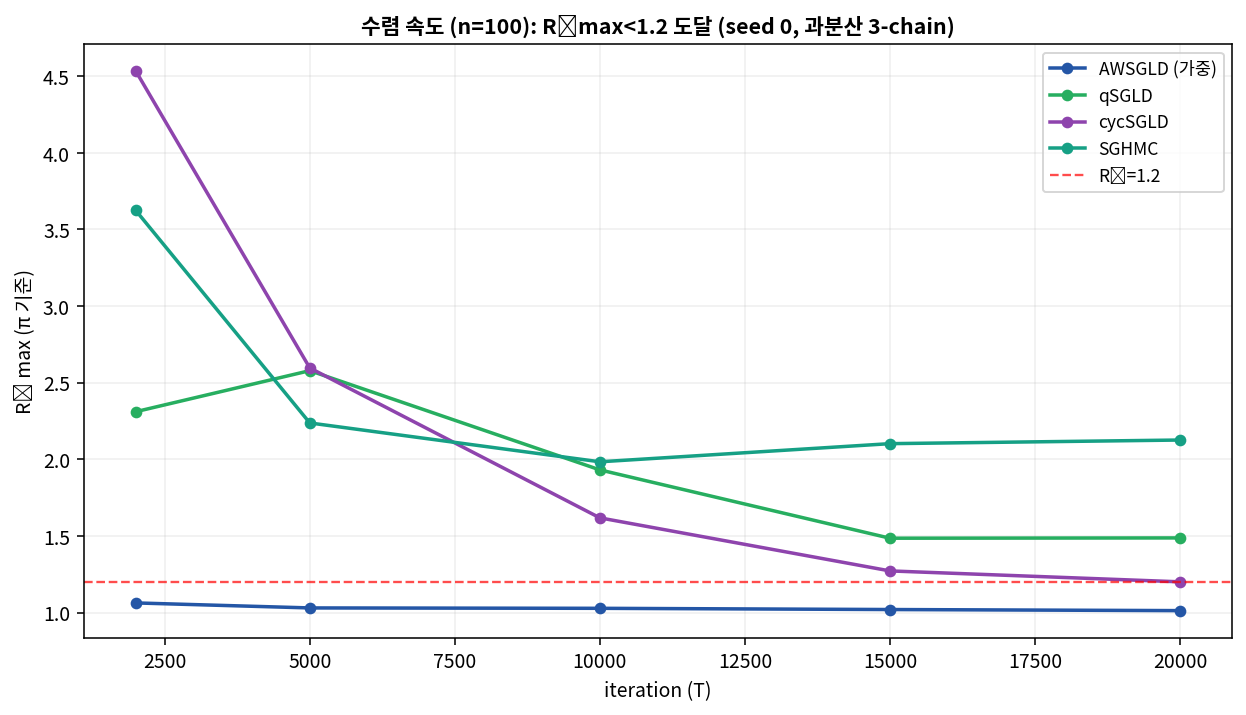
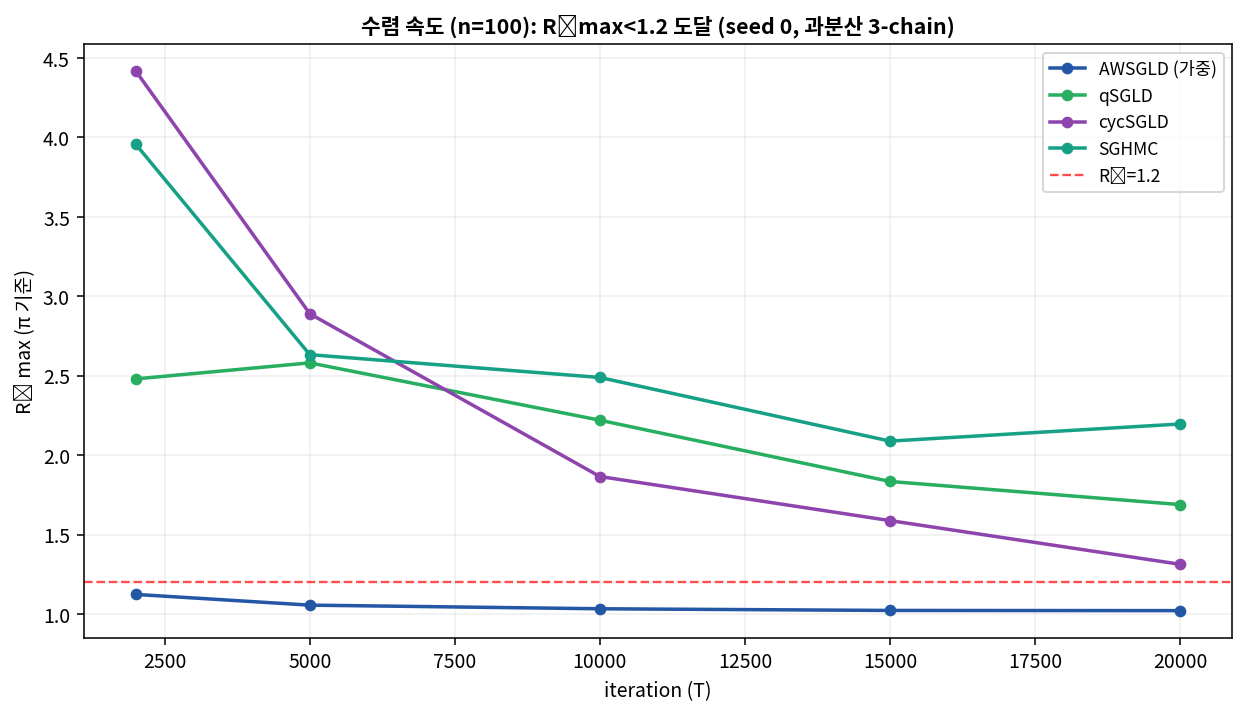
exp: Study A0 n=100 통합 — split-R̂(median/q95/max) + Lowest U/Reached 단일 setup(4-chain×seed0)
R̂를 split-R̂(각 체인 반 분할, AWSGLD π-가중)로 통일, 좌표별 median/q95/max 집계. 모든 지표를 4-chain×seed0 단일 setup에서 산출(cutoff=71, AWSGLD 정상상태). AWSGLD가 R̂ 3종 집계·Spearman·MSE·NDCG@50·ESS 전부 1위.

diff --git a/simulation/study_a0/unified_n100.py b/simulation/study_a0/unified_n100.py
@@ -1,10 +1,8 @@
-"""n=100 종합 지표표 — 6 샘플러 전체, 정직한 기준.
-
-AWSGLD: π-가중(w=G[J]) 추정량으로 복원·R̂ 계산 + Kong ESS. 나머지: π 직접이라 raw.
-과분산 3-chain(μ_N/μ_W/μ_S), T=10000. 데이터는 Study 1B 구성으로 n=100 새로 생성.
-
-지표: Spearman / MSE / NDCG@10 (복원) | R̂max / R̂median (수렴) | ESS(자기상관) | KongESS(AWSGLD)
-출력: full_metrics_n100.csv + 콘솔표
+"""통합 종합표 — 전 지표를 4-chain × seed0 단일 setup에서 계산.
+Spearman/MSE/NDCG@50 | split-R̂ (median/q95/max) | ESS | Lowest U / Reached.
+cutoff = 이 setup 에서 AWSGLD 정상상태 에너지(post-burn median, 4체인 median).
+AWSGLD 는 R̂·복원에 π-가중, 나머지 raw. 에너지(min U)는 전부 raw 궤적.
+출력: unified_n100.csv + 콘솔.
 """
 import os, sys, time, csv
 import numpy as np
@@ -18,15 +16,14 @@ from local_trap_landscape import PARAMS
 from extra_metrics import ess_per_node
 
 HERE = os.path.dirname(os.path.abspath(__file__))
-N = 100
-E.T = 20000; E.BURN = 2000; E.BATCH = 50
-T = E.T; BURN = E.BURN; BATCH = E.BATCH; FLOOR = 1.0
+N = 100; E.T = 20000; E.BURN = 2000; E.BATCH = 50
+T = E.T; BURN = E.BURN; FLOOR = 1.0
 M_REG = kfa.M_REGIONS; ZETA = kfa.ZETA; TAU = kfa.TAU; DECAY = kfa.DECAY_LR
-SEED = 0; INITS = [-0.8, 1.0, 2.5, "rand"]  # 4-chain (과분산 3 + 랜덤)
-METHODS = ["SGLD", "qSGLD", "cycSGLD", "SGHMC", "AWSGLD"]
+SEED = 0; INITS = [-0.8, 1.0, 2.5, "rand"]
+METHODS = ["acMH", "SGLD", "qSGLD", "cycSGLD", "SGHMC", "AWSGLD"]
 
 
-def gen_data(n, seed):
+def gen(n, seed):
     rng = np.random.default_rng(seed)
     z, _ = DG.assign_groups(n, (PARAMS["rho_S"], PARAMS["rho_W"], PARAMS["rho_N"]), rng)
     ts = DG.sample_theta_star(z, PARAMS, rng)
@@ -34,7 +31,7 @@ def gen_data(n, seed):
     Y, _ = DG.apply_label_conflict(Yc, z, DG.FLIP_RATE_S_TO_0, DG.FLIP_RATE_N_TO_1, rng)
     A = DG.build_sbm_graph(z, DG.P_IN, DG.P_OUT, rng)
     B, u_0, _ = DG.build_B_and_u0(A, DG.DAMPING)
-    return {"n": n, "A": A, "D": np.diag(A.sum(1))}, Y.astype(float), B, u_0, ts, z
+    return {"n": n, "A": A, "D": np.diag(A.sum(1))}, Y.astype(float), B, u_0, ts
 
 
 def run_awsgld(ini, Y, B, u_0, a0, n, BtB, P, Lc, seed):
@@ -46,7 +43,7 @@ def run_awsgld(ini, Y, B, u_0, a0, n, BtB, P, Lc, seed):
         s2 = max(invgamma.rvs(n / 2 + 0.001, scale=C / 2 + 0.001), FLOOR)
         eps = 0.3 / ((t + 1) ** 0.6 + 10)
         U = kfa.posterior_energy(Y, alpha, theta, u_0, B, s2)
-        bidx = np.random.choice(n, BATCH, replace=False) if BATCH < n else None
+        bidx = np.random.choice(n, E.BATCH, replace=False) if E.BATCH < n else None
         gU = kfa.grad_posterior_energy(Y, alpha, theta, u_0, B, s2, batch_idx=bidx, BtB=BtB)
         gm = 1.0
         if t < warm:
@@ -74,9 +71,7 @@ def ndcg_at_k(ts, th, k):
     return float(d / i) if i > 0 else 0.0
 
 
-def split_rhat(posts, wts):
-    """split-R̂: 각 체인을 반으로 갈라 2M sub-chain으로 Gelman-Rubin. AWSGLD 는 π-가중.
-    posts: list of M (L,n).  wts: list of M (L,) 또는 전부 None(raw)."""
+def split_rhat_coords(posts, wts):
     hm = []; hv = []; hL = None
     for ci, post in enumerate(posts):
         L = post.shape[0]; h = L // 2; hL = h
@@ -84,76 +79,68 @@ def split_rhat(posts, wts):
             seg = post[sl]
             if wts[ci] is not None:
                 w = wts[ci][sl]; sw = w.sum()
-                m = (w[:, None] * seg).sum(0) / sw
-                v = (w[:, None] * (seg - m) ** 2).sum(0) / sw
+                m = (w[:, None] * seg).sum(0) / sw; v = (w[:, None] * (seg - m) ** 2).sum(0) / sw
             else:
                 m = seg.mean(0); v = seg.var(0, ddof=1)
             hm.append(m); hv.append(v)
     hm = np.array(hm); hv = np.array(hv); M2 = len(hm)
     gm = hm.mean(0); Bo = ((hm - gm) ** 2).sum(0) / (M2 - 1); W = hv.mean(0)
-    R = np.sqrt(np.clip(((hL - 1) / hL * W + Bo) / np.maximum(W, 1e-12), 0, None))
-    return float(np.nanmax(R)), float(np.median(R))
+    return np.sqrt(np.clip(((hL - 1) / hL * W + Bo) / np.maximum(W, 1e-12), 0, None))
 
 
 def main():
-    graph, Y, B, u_0, ts, z = gen_data(N, SEED); n = N
+    graph, Y, B, u_0, ts = gen(N, SEED); n = N
     BtB = B.T @ B; ridge = 1e-6 * np.trace(BtB) / n
     P = np.linalg.solve(BtB + ridge * np.eye(n), np.eye(n)); P = 0.5 * (P + P.T)
     Lc = np.linalg.cholesky(P + 1e-10 * np.eye(n)); a0 = E.alpha_find(u_0, Y, E.GRID)
-    L = T - BURN; rows = []; t0 = time.time()
-    print(f"n={N} 종합지표 | T={T} 3-chain | AWSGLD=π가중\n", flush=True)
+    D = {}; t0 = time.time()
+    print(f"통합 4-chain×seed0 | n={N} T={T}\n", flush=True)
     for m in METHODS:
-        posts = []; wts = []; ess_list = []; kong = None; pooled_num = 0.0; pooled_den = 0.0
+        posts = []; wts = []; ess_list = []; minU = []; statU = []; pn = 0.0; pd = 0.0; kong = None
         for ci, val in enumerate(INITS):
             ini = (np.random.RandomState(7000 + 100 * SEED + ci).randn(n) * 1.5 if val == "rand" else np.full(n, float(val)))
             if m == "AWSGLD":
                 ths, J, aw = run_awsgld(ini, Y, B, u_0, a0, n, BtB, P, Lc, seed=100 * SEED + ci)
                 post = ths[BURN:]; Jp = J[BURN:]; w = aw[Jp].copy(); w[Jp >= M_REG - 1] = 0.0; sw = w.sum()
-                posts.append(post); wts.append(w)
-                pooled_num += (w[:, None] * post).sum(0); pooled_den += sw
+                posts.append(post); wts.append(w); pn += (w[:, None] * post).sum(0); pd += sw
                 if ci == 0: kong = (sw ** 2) / (np.sum(w ** 2) + 1e-300)
             else:
                 np.random.seed(100 * SEED + ci)
-                if m == "acMH":
-                    ths = E.run_acmh(graph, Y, B, u_0, ini, a0, 100 * SEED + ci)
-                else:
-                    ths = E.run_sgld_family(m, graph, Y, B, u_0, ini, a0, 100 * SEED + ci)
-                post = ths[BURN:]; posts.append(post); wts.append(None)
-                pooled_num += post.sum(0); pooled_den += post.shape[0]
+                ths = E.run_acmh(graph, Y, B, u_0, ini, a0, 100 * SEED + ci) if m == "acMH" \
+                    else E.run_sgld_family(m, graph, Y, B, u_0, ini, a0, 100 * SEED + ci)
+                post = ths[BURN:]; posts.append(post); wts.append(None); pn += post.sum(0); pd += post.shape[0]
             ess_list.append(np.nanmedian(ess_per_node(post)))
-        thetahat = pooled_num / pooled_den
-        rmax, rmed = split_rhat(posts, wts)
-        sp = spearmanr(ts, thetahat).statistic; mse = float(np.mean((thetahat - ts) ** 2))
-        KS = [5, 10, 20, 50]
-        nd = {k: ndcg_at_k(ts, thetahat, k) for k in KS}
-        rows.append(dict(m=m, sp=sp, mse=mse, ndcg=nd, rmax=rmax, rmed=rmed,
-                         ess=float(np.median(ess_list)), kong=(float(kong) if kong else None)))
-        r = rows[-1]
-        print(f"  {m:>8}: Spear {sp:.3f} MSE {mse:.2f} | NDCG@5/10/20/50 {nd[5]:.3f}/{nd[10]:.3f}/{nd[20]:.3f}/{nd[50]:.3f} | "
-              f"R̂max {rmax:.2f} R̂med {rmed:.3f} | ESS {r['ess']:.1f}{'' if kong is None else f' Kong {kong:.0f}'}  ({int(time.time()-t0)}s)", flush=True)
+            Utr = E.energy_trace_common(post, Y, B, u_0, a0)
+            minU.append(float(Utr.min())); statU.append(float(np.median(Utr)))
+        th = pn / pd
+        R = split_rhat_coords(posts, wts)
+        D[m] = dict(sp=spearmanr(ts, th).statistic, mse=float(np.mean((th - ts) ** 2)),
+                    ndcg=ndcg_at_k(ts, th, 50), rmed=float(np.median(R)), rq95=float(np.quantile(R, 0.95)),
+                    rmax=float(np.nanmax(R)), ess=float(np.median(ess_list)), kong=kong,
+                    minU=minU, statU=statU)
+        print(f"  {m:>8}: Spear {D[m]['sp']:.2f} R̂ med/q95/max {D[m]['rmed']:.2f}/{D[m]['rq95']:.2f}/{D[m]['rmax']:.2f} "
+              f"ESS {D[m]['ess']:.0f} minU {np.mean(minU):.0f}  ({int(time.time()-t0)}s)", flush=True)
 
-    print("\n=== n=100 NDCG@k 비교 (k 늘려도?) ===")
-    print(f"{'method':>8} | {'@5':>6} {'@10':>6} {'@20':>6} {'@50':>6}")
-    for r in rows:
-        n = r["ndcg"]
-        print(f"{r['m']:>8} | {n[5]:>6.3f} {n[10]:>6.3f} {n[20]:>6.3f} {n[50]:>6.3f}")
-
-    print("\n=== n=100 종합 (AWSGLD=π가중, 나머지=raw) ===")
-    hdr = f"{'method':>8} | {'Spear↑':>7} {'MSE↓':>6} {'NDCG50↑':>8} | {'R̂max↓':>7} {'R̂med↓':>7} | {'ESS↑':>6}"
+    CUT = float(np.round(np.median(D["AWSGLD"]["statU"])))   # cutoff = AWSGLD 정상상태 에너지 (4체인 median)
+    NC = len(INITS)
+    print(f"\ncutoff = {CUT:.0f} (AWSGLD 정상상태 에너지, 4체인 median)\n")
+    hdr = f"{'Sampler':>8} {'Spear':>6} {'MSE':>6} {'NDCG50':>7} | {'R̂med':>6} {'R̂q95':>6} {'R̂max':>6} | {'ESS':>5} | {'LowU':>5} {'Reach':>6}"
     print(hdr); print("-" * len(hdr))
-    for r in rows:
-        conv = "✅" if r["rmax"] < 1.2 else "  "
-        print(f"{r['m']:>8} | {r['sp']:>7.3f} {r['mse']:>6.2f} {r['ndcg'][50]:>8.3f} | {r['rmax']:>6.2f}{conv} {r['rmed']:>7.3f} | {r['ess']:>6.1f}")
+    for m in METHODS:
+        d = D[m]; low = [max(CUT, v) for v in d["minU"]]; reach = sum(1 for v in d["minU"] if v <= CUT)
+        d["low"] = float(np.mean(low)); d["reach"] = reach
+        print(f"{m:>8} {d['sp']:>6.2f} {d['mse']:>6.2f} {d['ndcg']:>7.3f} | {d['rmed']:>6.3f} {d['rq95']:>6.3f} {d['rmax']:>6.3f} | "
+              f"{d['ess']:>5.0f} | {d['low']:>5.0f} {reach:>4}/{NC}")
 
-    with open(os.path.join(HERE, "full_metrics_n100.csv"), "w", newline="") as fh:
-        w = csv.writer(fh); w.writerow(["method", "spearman", "mse", "ndcg5", "ndcg10", "ndcg20", "ndcg50", "rhat_max", "rhat_median", "ess", "kong_ess"])
-        for r in rows:
-            nd = r["ndcg"]
-            w.writerow([r["m"], round(r["sp"], 4), round(r["mse"], 4),
-                        round(nd[5], 4), round(nd[10], 4), round(nd[20], 4), round(nd[50], 4),
-                        round(r["rmax"], 4), round(r["rmed"], 4), round(r["ess"], 2),
-                        ("" if r["kong"] is None else round(r["kong"], 1))])
-    print(f"\n저장: full_metrics_n100.csv ({int(time.time()-t0)}s)")
+    with open(os.path.join(HERE, "unified_n100.csv"), "w", newline="") as fh:
+        w = csv.writer(fh); w.writerow(["method", "spearman", "mse", "ndcg50", "rhat_median", "rhat_q95", "rhat_max",
+                                        "ess", "kong_ess", "lowest_U", "reached", "n_chains", "cutoff"])
+        for m in METHODS:
+            d = D[m]
+            w.writerow([m, round(d["sp"], 4), round(d["mse"], 4), round(d["ndcg"], 4), round(d["rmed"], 4),
+                        round(d["rq95"], 4), round(d["rmax"], 4), round(d["ess"], 2),
+                        ("" if d["kong"] is None else round(d["kong"], 1)), round(d["low"], 1), d["reach"], NC, CUT])
+    print(f"\n저장: unified_n100.csv ({int(time.time()-t0)}s)")
 
 
 if __name__ == "__main__":

diff --git a/simulation/study_a0/acmh_metrics_4chain.py b/simulation/study_a0/acmh_metrics_4chain.py
@@ -35,19 +35,29 @@ def ndcg_at_k(ts, th, k):
     return float(d / i) if i > 0 else 0.0
 
 
+def split_rhat(posts):
+    """split-R̂ (raw): 각 체인 반으로 갈라 2M sub-chain."""
+    hm = []; hv = []; hL = None
+    for post in posts:
+        L = post.shape[0]; h = L // 2; hL = h
+        for sl in (slice(0, h), slice(h, 2 * h)):
+            seg = post[sl]; hm.append(seg.mean(0)); hv.append(seg.var(0, ddof=1))
+    hm = np.array(hm); hv = np.array(hv); M2 = len(hm)
+    gm = hm.mean(0); Bo = ((hm - gm) ** 2).sum(0) / (M2 - 1); W = hv.mean(0)
+    return np.sqrt(np.clip(((hL - 1) / hL * W + Bo) / np.maximum(W, 1e-12), 0, None))
+
+
 def main():
     t0 = time.time()
     graph, Y, B, u_0, ts = gen(N, SEED); n = N; a0 = E.alpha_find(u_0, Y, E.GRID); L = T - BURN
-    means = []; withins = []; ess_list = []; pn = 0.0; pd = 0.0
+    posts = []; ess_list = []; pn = 0.0; pd = 0.0
     for ci, val in enumerate(INITS):
         ini = (np.random.RandomState(7000 + 100 * SEED + ci).randn(n) * 1.5 if val == "rand" else np.full(n, float(val)))
         ths = E.run_acmh(graph, Y, B, u_0, ini, a0, 100 * SEED + ci)
-        post = ths[BURN:]; means.append(post.mean(0)); withins.append(post.var(0, ddof=1))
+        post = ths[BURN:]; posts.append(post)
         ess_list.append(np.nanmedian(ess_per_node(post))); pn += post.sum(0); pd += post.shape[0]
         print(f"  chain {ci} done ({int(time.time()-t0)}s)", flush=True)
-    means = np.array(means); withins = np.array(withins); M = len(INITS); gm = means.mean(0)
-    Bo = ((means - gm) ** 2).sum(0) / (M - 1); W = withins.mean(0)
-    R = np.sqrt(np.clip(((L - 1) / L * W + Bo) / np.maximum(W, 1e-12), 0, None))
+    R = split_rhat(posts)
     th = pn / pd; sp = spearmanr(ts, th).statistic; mse = float(np.mean((th - ts) ** 2))
     row = ["acMH", round(sp, 4), round(mse, 4), round(ndcg_at_k(ts, th, 5), 4), round(ndcg_at_k(ts, th, 10), 4),
            round(ndcg_at_k(ts, th, 20), 4), round(ndcg_at_k(ts, th, 50), 4),

diff --git a/simulation/study_a0/awsgld_convergence_n.py b/simulation/study_a0/awsgld_convergence_n.py
@@ -83,18 +83,20 @@ def run(method, ini, Y, B, u_0, a0, n, BtB, P, Lc, seed):
 
 
 def rhat_w(chains, Jchains, aw, lo, hi, weighted):
-    means = []; withins = []
+    """split-R̂: [lo:hi] 를 반으로 갈라 2M sub-chain. AWSGLD 는 π-가중."""
+    means = []; withins = []; L = hi - lo; h = L // 2; hL = h
     for ci, c in enumerate(chains):
-        post = c[lo:hi]
-        if weighted:
-            Jp = Jchains[ci][lo:hi]; w = aw[Jp].copy(); w[Jp >= M_REG - 1] = 0.0; sw = w.sum()
-            m = (w[:, None] * post).sum(0) / sw; v = (w[:, None] * (post - m) ** 2).sum(0) / sw
-        else:
-            m = post.mean(0); v = post.var(0, ddof=1)
-        means.append(m); withins.append(v)
-    means = np.array(means); withins = np.array(withins); M = len(chains); L = hi - lo
-    gm = means.mean(0); Bo = ((means - gm) ** 2).sum(0) / (M - 1); W = withins.mean(0)
-    R = np.sqrt(np.clip(((L - 1) / L * W + Bo) / np.maximum(W, 1e-12), 0, None))
+        for a, b in ((lo, lo + h), (lo + h, lo + 2 * h)):
+            post = c[a:b]
+            if weighted:
+                Jp = Jchains[ci][a:b]; w = aw[Jp].copy(); w[Jp >= M_REG - 1] = 0.0; sw = w.sum()
+                m = (w[:, None] * post).sum(0) / sw; v = (w[:, None] * (post - m) ** 2).sum(0) / sw
+            else:
+                m = post.mean(0); v = post.var(0, ddof=1)
+            means.append(m); withins.append(v)
+    means = np.array(means); withins = np.array(withins); M2 = len(means)
+    gm = means.mean(0); Bo = ((means - gm) ** 2).sum(0) / (M2 - 1); W = withins.mean(0)
+    R = np.sqrt(np.clip(((hL - 1) / hL * W + Bo) / np.maximum(W, 1e-12), 0, None))
     return float(np.nanmax(R)), float(np.median(R))
 
 
